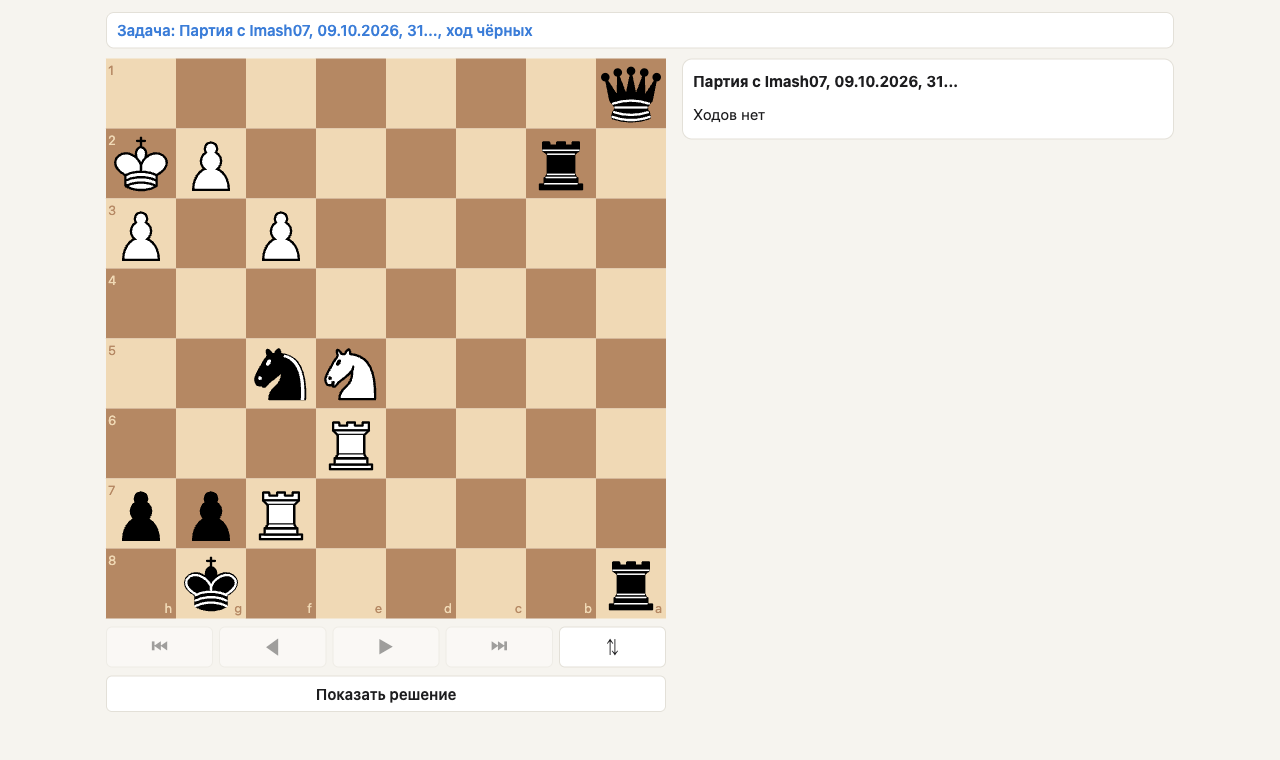
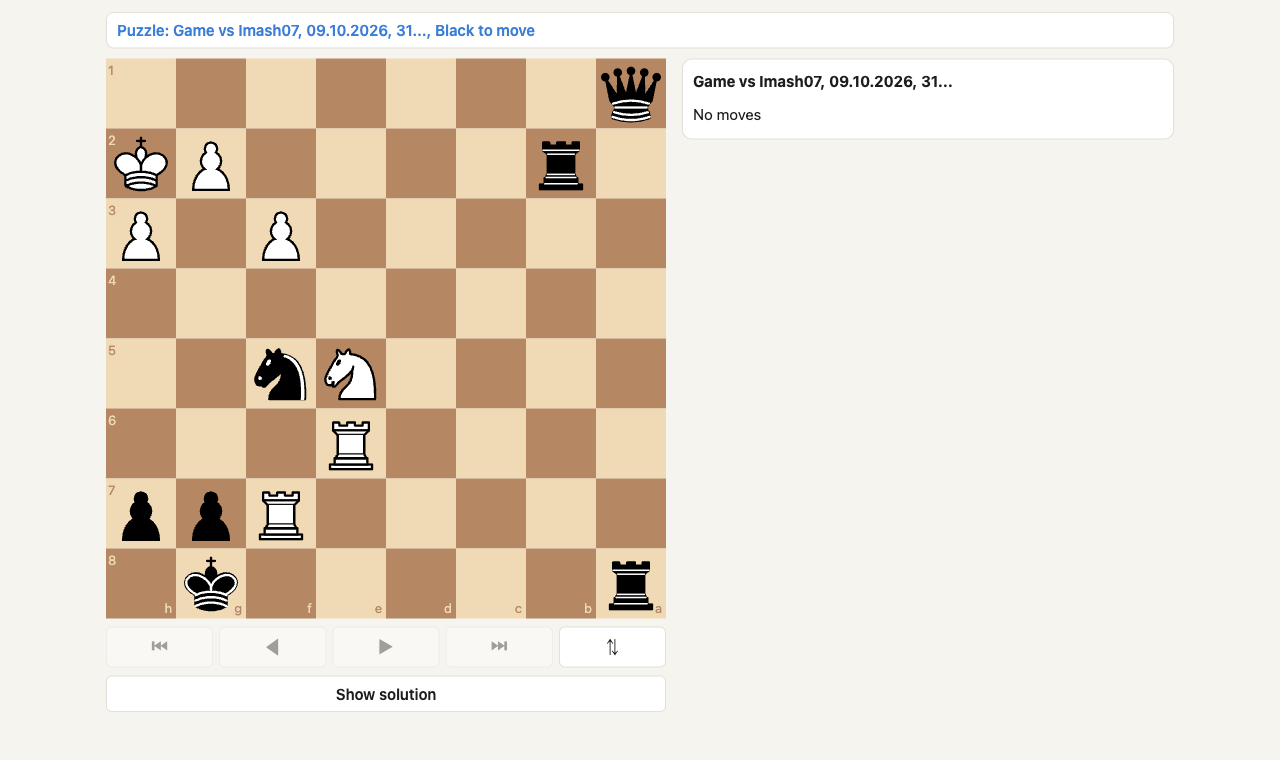
Re-capture README screenshots with English UI strings
Board, puzzle and report screenshots now match the English GIF; the
notes about the Russian interface are removed from the README.

diff --git a/README.md b/README.md
@@ -6,7 +6,7 @@ A personal chess coach built on [Claude Code](https://claude.com/claude-code): S
 
 ![A lesson at the board: the coach sets a task, the student plays a move, the coach says it is a mistake and replays the refutation on the board](docs/media/lesson.gif)
 
-*A lesson at the board (in progress): the student answers on the board, the coach judges the move with the engine and replays the refutation move by move. The interface strings in this demo are translated to English; the app's own interface is in Russian.*
+*A lesson at the board (in progress): the student answers on the board, the coach judges the move with the engine and replays the refutation move by move.*
 
 ## What It Does
 
@@ -20,8 +20,6 @@ A personal chess coach built on [Claude Code](https://claude.com/claude-code): S
 - **In progress**: lessons at the board, where the coach plays through positions with the student move by move and reacts to the student's reasoning, not only to the move.
 
 ## Screenshots
-
-The board and reports are in Russian, like the coaching language.
 
 ![The board with a reviewed game: a coach line with an arrow, the eval bar and three engine lines next to the board](docs/media/board-review.png)
 
